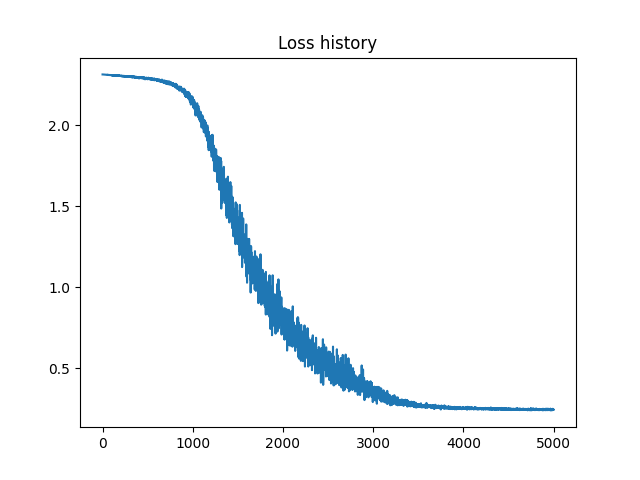
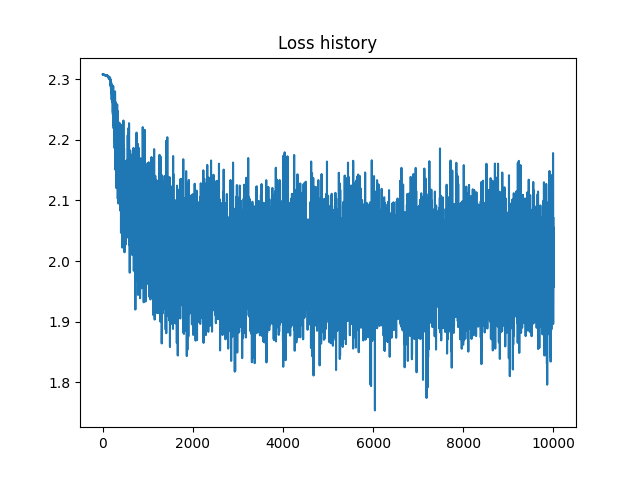
fix trouble with batches

diff --git a/src/seminar4.py b/src/seminar4.py
@@ -4,6 +4,10 @@ from abc import ABC, abstractmethod
 from copy import deepcopy
 
 from seminar3 import *
+import datetime
+import os.path
+
+import numpy as np
 from test_utils import get_preprocessed_data
 
 epsilon = 1e-3
@@ -33,8 +37,7 @@ class Optimizer(ABC):
 
 class SGD(Optimizer):
     def step(self, w, d_w, learning_rate):
-        # TODO Update W with d_W
-        pass
+        w -= d_w * learning_rate
 
 
 class Momentum(Optimizer):
@@ -45,14 +48,17 @@ class Momentum(Optimizer):
     def step(self, w, d_w, learning_rate):
         if self.velocity is None:
             self.velocity = np.zeros_like(d_w)
-        # TODO Update W with d_W and velocity
-
+        new_velocity = self.rho * self.velocity + d_w
+        w -= learning_rate * new_velocity
+        self.velocity = new_velocity
 
 class DropoutLayer(Layer):
     def forward(self, x: np.ndarray, train: bool = True) -> np.ndarray:
         if train:
-            # TODO zero mask in random X position and scale remains
-            pass
+            self.mask = np.random.binomial(1, 1 - self.p, size=x.shape)
+            # self.mask = np.random.random(size=x.shape) > self.p
+            self.scale = 1 / (1 - self.p)
+            return x * self.mask * self.scale
         else:
             return x
 
@@ -102,11 +108,12 @@ class BatchNormLayer(Layer):
     def forward(self, x: np.ndarray, train: bool = True) -> np.ndarray:
         self.num_examples = x.shape[0]
         if train:
-            # TODO Compute mean_x and var_x
+            self.mean_x = np.mean(x, axis=0, keepdims=True)
+            self.var_x = np.var(x, axis=0, keepdims=True)
             self._update_running_variables()
         else:
-            # TODO Copy mean_x and var_x from running variables
-            pass
+            self.mean_x = self.running_mean_x
+            self.var_x = self.running_var_x
 
         self.var_x += epsilon
         self.stddev_x = np.sqrt(self.var_x)
@@ -175,7 +182,7 @@ class NeuralNetwork:
         num_classes = np.max(y) + 1
         loss_history = []
         for it in range(num_iters):
-            idxs = np.random.choice(num_classes, batch_size)
+            idxs = np.random.choice(len(X), batch_size)
             X_batch, y_batch = X[idxs], y[idxs]
             # evaluate loss and gradient
             z = self.forward(X_batch)
@@ -202,14 +209,71 @@ class NeuralNetwork:
                 model_params[f'layer_{i}_{k}'] = v
         return model_params
 
+    def evaluate(self, X, y):
+        """
+        Use the trained weights of this linear classifier to predict labels for
+        data points and evaluate accuracy.
+        Inputs:
+        - X: A numpy array of shape (N, D) containing training data; there are N
+          training samples each of dimension D.
+        Returns:
+        - y_predicted: Predicted labels for the data in X. y_predicted is a 1-dimensional
+          array of length N, and each element is an integer giving the predicted
+          class.
+        """
+        z = self.forward(X)
+        y_predicted = np.argmax(z, axis=1)
+        accuracy = np.mean(y_predicted==y)
+        return accuracy
+
+
 
 if __name__ == '__main__':
-    """1 point"""
+    n_input, n_output, hidden = 3072, 10, 256
+    learning_rate = 1e-3
+    reg = 0.1
+    num_iters = 500
+    batch_size = 32
+
     (x_train, y_train), (x_test, y_test) = get_preprocessed_data(include_bias=False)
     # Train your neural net!
-    n_input, n_output, n_hidden = 3072, 10, 256
-    neural_net = NeuralNetwork([DenseLayer(n_input, n_hidden),
-                                DropoutLayer(0.5),
-                                BatchNormLayer(n_hidden),
+    neural_net = NeuralNetwork([DenseLayer(n_input, hidden),
+                                DropoutLayer(0.25),
+                                BatchNormLayer(hidden),
                                 ReLULayer(),
-                                DenseLayer(n_hidden, n_output)])
+                                DenseLayer(hidden, n_output)])
+    neural_net.setup_optimizer(Momentum(0.9))
+    t0 = datetime.datetime.now()
+    loss_history = neural_net.fit(x_train, y_train, num_iters=num_iters)
+    t1 = datetime.datetime.now()
+    dt = t1 - t0
+
+
+    report = f"""# Training Neural Net
+        datetime: {t1.isoformat(' ', 'seconds')}
+        Well done in: {dt.seconds} seconds  
+        learning_rate = {learning_rate}
+        reg = {reg}  
+        num_iters = {num_iters}
+        batch_size = {batch_size}
+        
+        Final loss: {loss_history[-1]}
+        Train accuracy: {neural_net.evaluate(x_train, y_train)}   
+        Test accuracy: {neural_net.evaluate(x_test, y_test)}
+        
+        <img src="loss.png">
+        """
+
+    print(report)
+
+
+    out_dir = '../output/seminar4'
+    report_path = os.path.join(out_dir, 'report.md')
+    with open(report_path, 'w') as f:
+        f.write(report)
+
+    visualize_loss(loss_history, out_dir)
+
+
+
+

diff --git a/src/seminar3.py b/src/seminar3.py
@@ -51,7 +51,6 @@ class ReLULayer:
 
     def forward(self, X: np.array) -> np.array:
         """
-        TODO: Implement forward pass
         Hint: you'll need to save some information about X
         in the instance variable to use it later in the backward pass
         :param X: input data
@@ -83,7 +82,6 @@ class DenseLayer:
         self.X = None
 
     def forward(self, X):
-        # TODO: Implement forward pass
         # Your implementation shouldn't have any loops
         self.X = X.copy()
         return X @ self.W.value + self.B.value
@@ -101,9 +99,6 @@ class DenseLayer:
         d_result: np array (batch_size, n_input) - gradient
           with respect to input
         """
-        # TODO: Implement backward pass
-        # self.B.grad = np.sum(d_out, axis=0)
-        # self.W.grad = self.X.T @ d_out
         self.W.grad = np.dot(self.X.T, d_out)
         self.B.grad = np.sum(d_out, axis=0, keepdims=True)
 
@@ -143,9 +138,6 @@ class TwoLayerNet:
         """
         Z = X.copy()
 
-        # TODO forward passes through the all model`s layer
-        # Set layer parameters gradient to zeros
-        # After that compute loss and gradients
         for layer in self.layers:
             Z = layer.forward(Z)
             for param in layer.params().values():
@@ -187,12 +179,10 @@ class TwoLayerNet:
         Outputs:
         A list containing the value of the loss function at each training iteration.
         """
-        num_classes = np.max(y) + 1  # assume y takes values 0...K-1 where K is number of classes
-
         # Run stochastic gradient descent to optimize W
         loss_history = []
         for it in range(num_iters):
-            idxs = np.random.choice(num_classes, batch_size)
+            idxs = np.random.choice(X.shape[0], batch_size)
             X_batch, y_batch = X[idxs], y[idxs]
             # evaluate loss and gradient
             self.forward(X_batch, y_batch)
@@ -230,12 +220,12 @@ class TwoLayerNet:
 
 if __name__ == '__main__':
     (x_train, y_train), (x_test, y_test) = get_preprocessed_data()
-    hidden_layer_size = 64
+    hidden_layer_size = 32
     reg = 0.1
-    learning_rate = 1e-3
+    learning_rate = 2e-2
     n_input = x_train.shape[1]
     n_output = 10
-    num_iters = 5000
+    num_iters = 10_000
     batch_size = 128
     model = TwoLayerNet(n_input, n_output, hidden_layer_size, reg)
     t0 = datetime.datetime.now()

diff --git a/src/test_utils.py b/src/test_utils.py
@@ -39,7 +39,7 @@ def check_gradient(f, x, delta=1e-5, tol=1e-4):
         numeric_grad_at_ix = (f(x + delta_vec)[0] - f(x - delta_vec)[0]) / (2 * delta)
 
         if not np.isclose(numeric_grad_at_ix, analytic_grad_at_ix, tol):
-            print("Gradients are different at %s. Analytic: %2.10f, Numeric: %2.10f" % (
+            print("Gradients are different at %s. Analytic: %2.5f, Numeric: %2.5f" % (
             ix, analytic_grad_at_ix, numeric_grad_at_ix))
             return False
         it.iternext()

diff --git a/output/seminar3/report.md b/output/seminar3/report.md
@@ -1,14 +1,14 @@
 # Training Softmax classifier
-    datetime: 2023-10-14 00:21:41
-    Well done in: 113 seconds
-    learning_rate = 0.001
+    datetime: 2023-10-21 21:47:30
+    Well done in: 210 seconds
+    learning_rate = 0.02
     reg = 0.1
-    num_iters = 5000
+    num_iters = 10000
     batch_size = 128
 
-    Final loss: 0.24444326439872807
-    Train accuracy: 0.16316   
-    Test accuracy: 0.162  
+    Final loss: 2.0707953359331954
+    Train accuracy: 0.38452   
+    Test accuracy: 0.387  
     <img src="weights.png">
     <br>
     <img src="loss.png">
